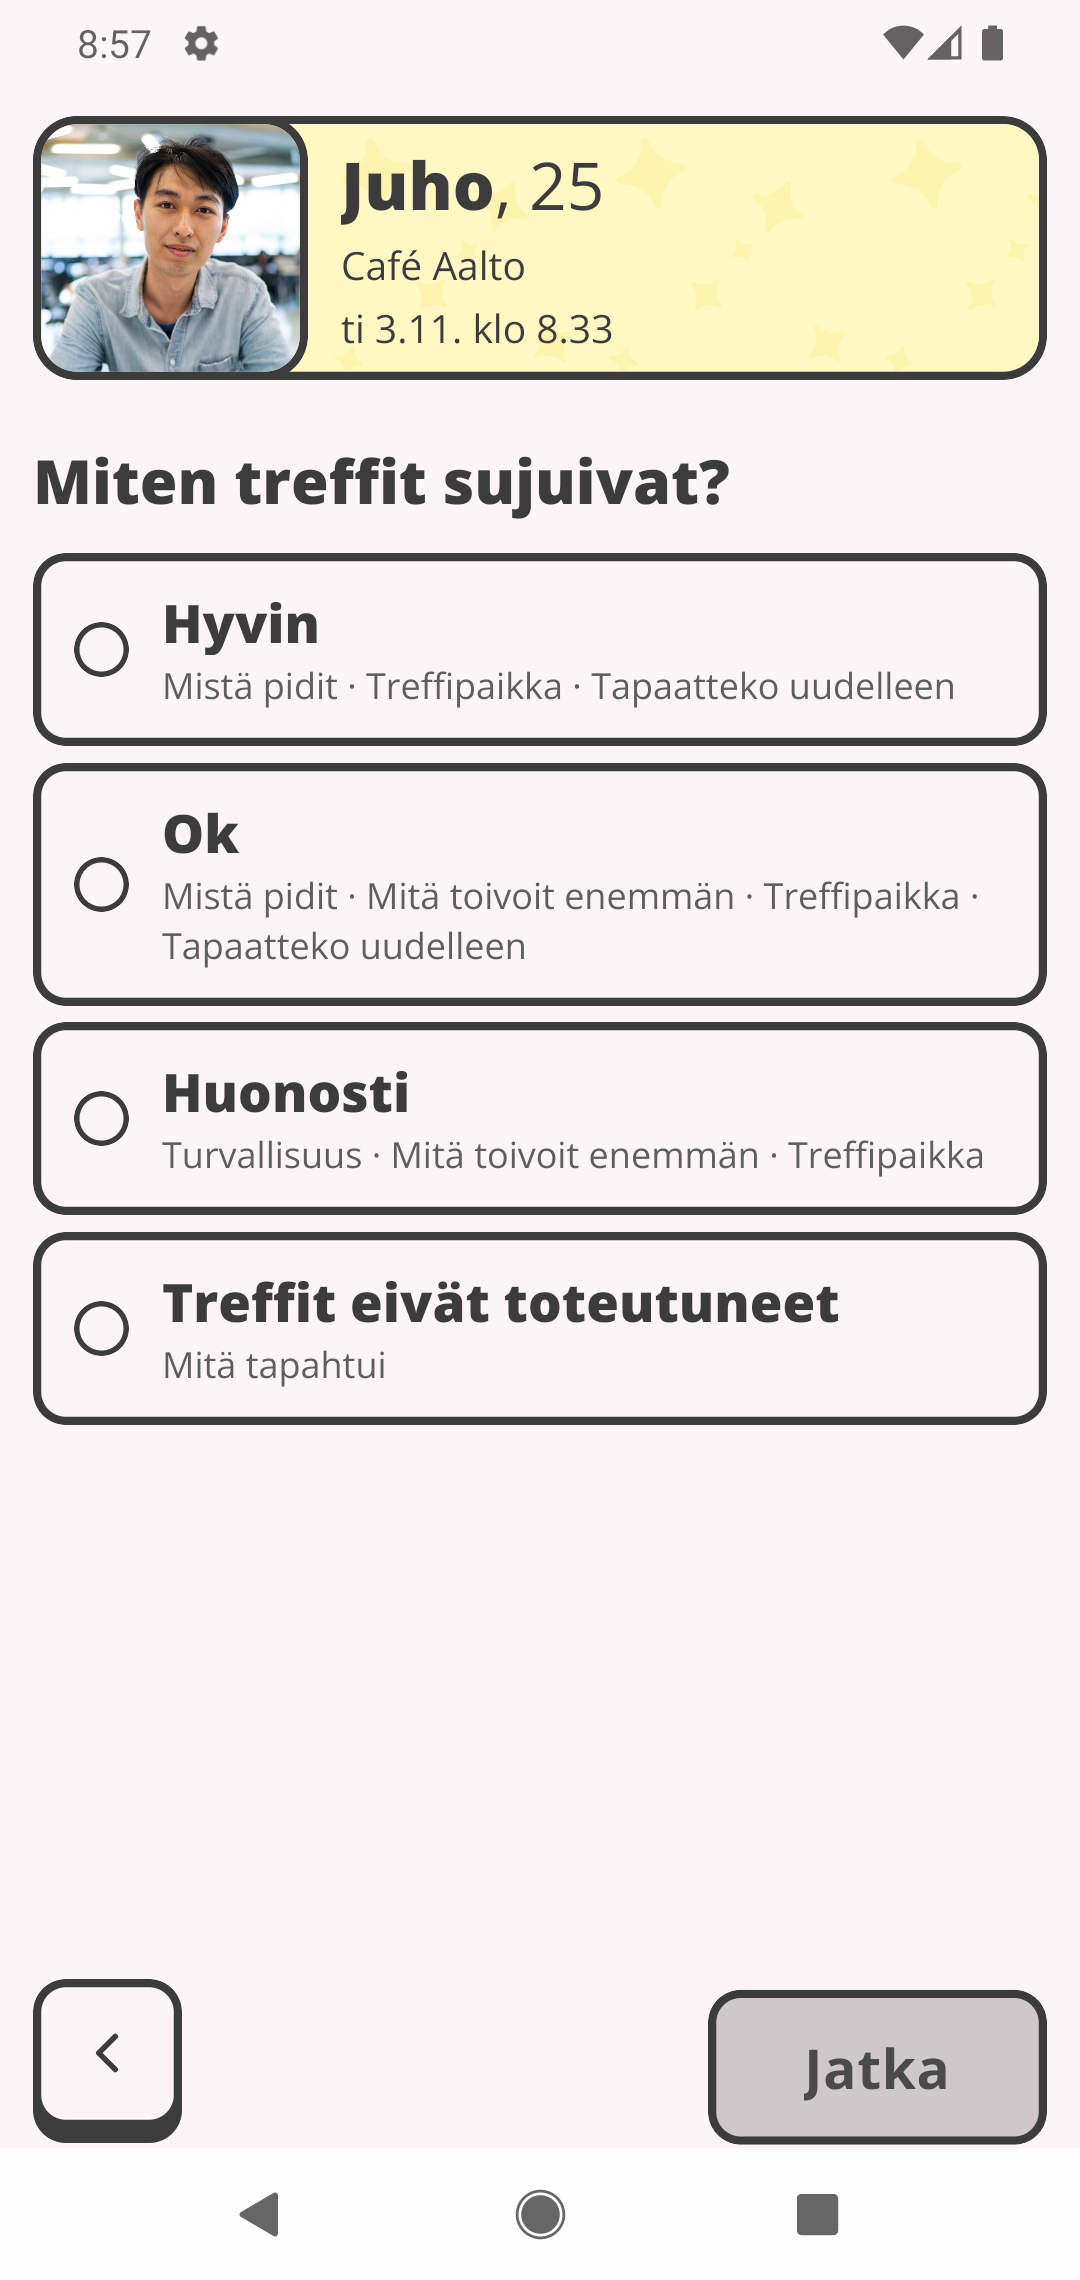
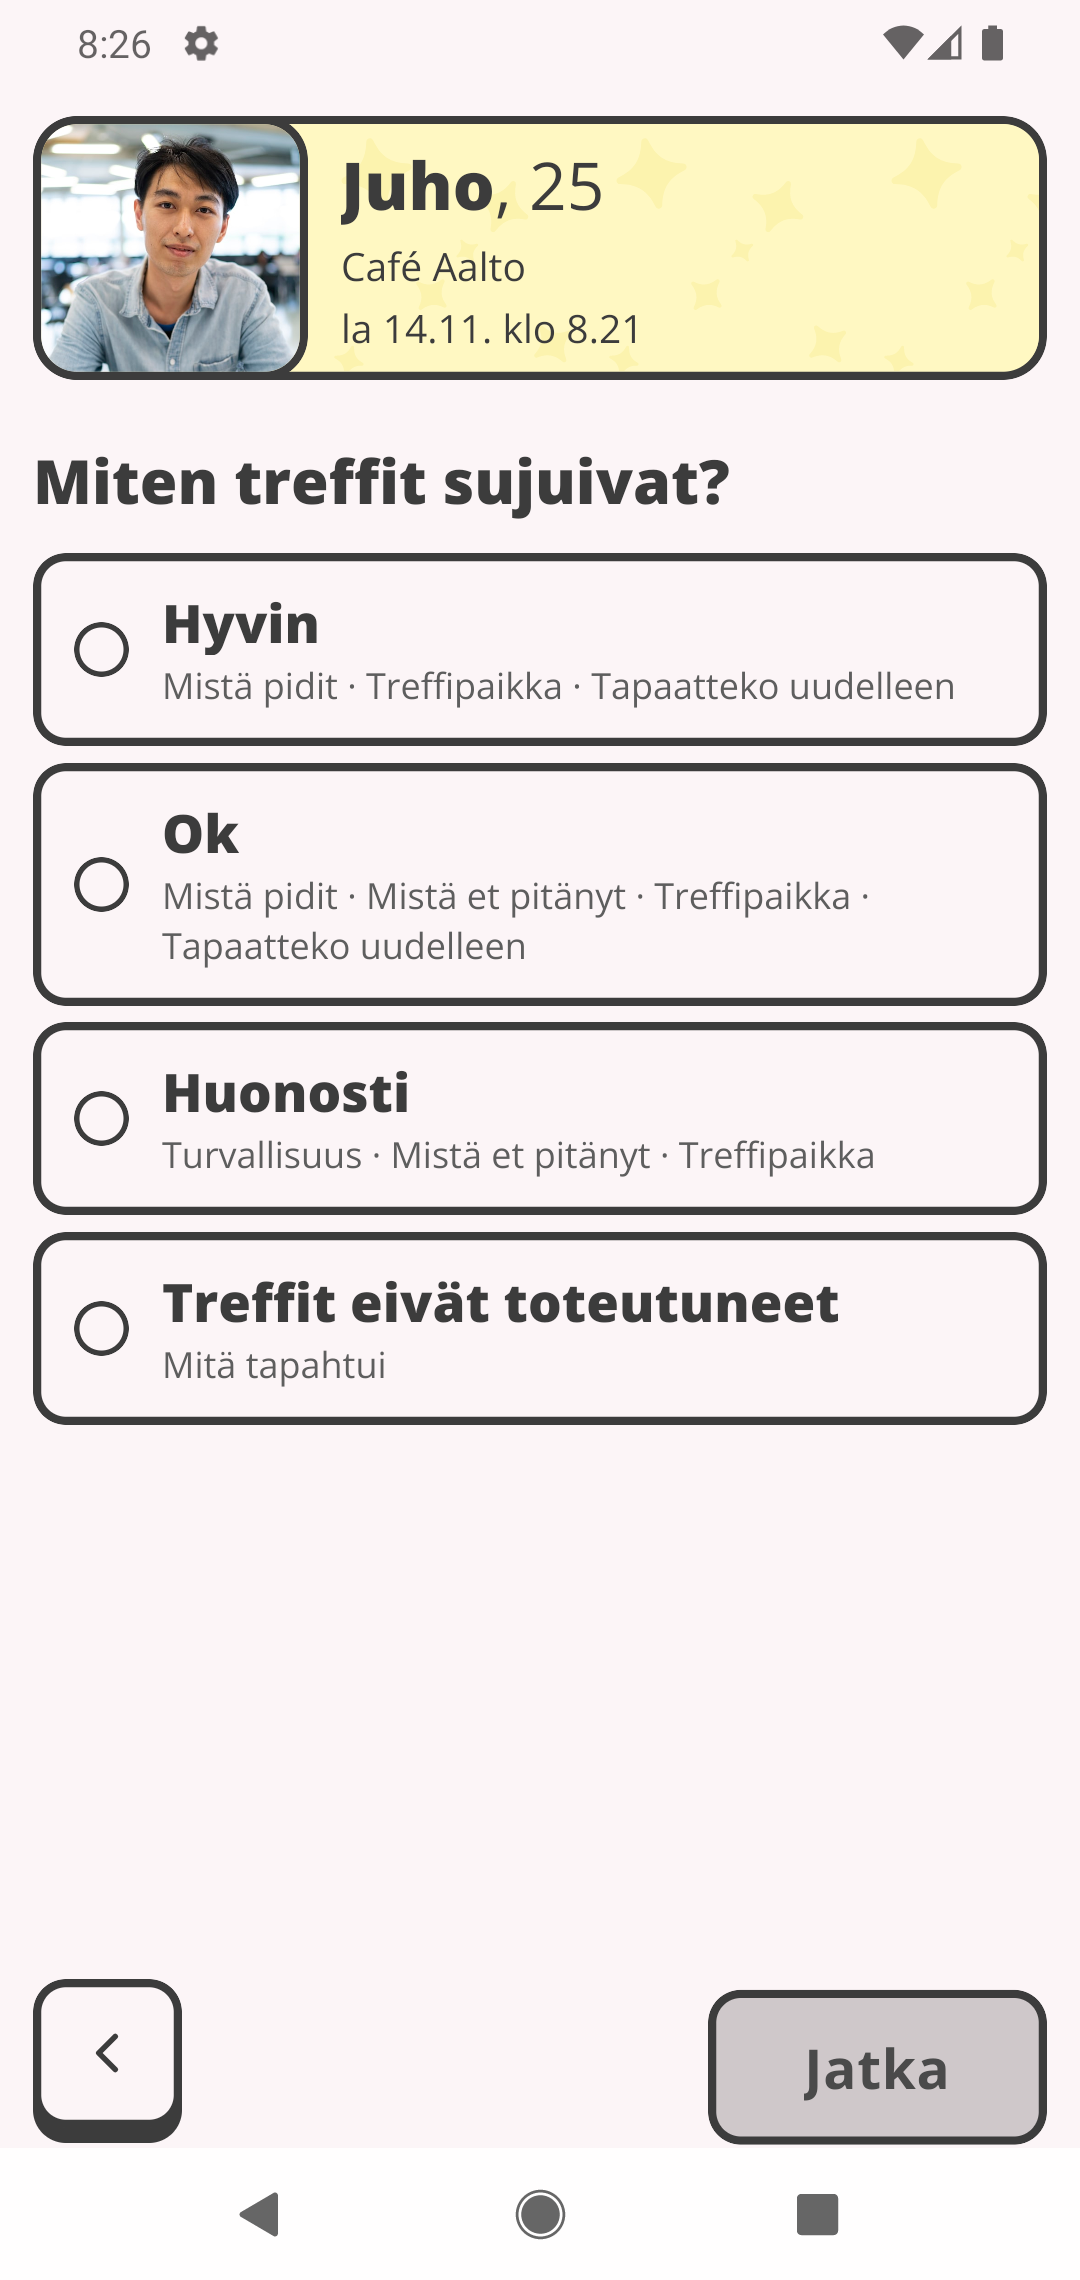
pictures: the feedback stills retaken on the new form
The manual's first question now has the Mistä et pitänyt hints, and the
marketing phone shows Pidin näistä asioista treffiparissani as chips, with
no views chips and the lock line under them. Captured with
capture-site-pictures.sh (marketing feedback set) and capture-screens.sh
--manual --only feedback, from a release APK of pilke-app 06117b0 against
treffit-backend ad5d145 with MATCHING_VIEWS_ENABLED off.

Claude-Session: https://claude.ai/code/session_01GD9L6NkBiCqNs6T5pZN8hJ

diff --git a/docs/pictures.md b/docs/pictures.md
@@ -175,8 +175,8 @@ the flow inside it, and "in English" means that flow's copy derived by `manual-s
 | `story-en` | Story test, first question, English | `screenshotStory.yaml` in English | The first question in English and `Continue`. Drawn on no page |
 | `platter-en` | Candidates, English | `screenshotPlatter.yaml` in English | What `platter` shows, in English: `Candidates`, `Times`, `Places`, `Propose!`. Drawn on `/en` in place of `platter` |
 | `invitation-en` | Invitation received, English | `screenshots.yaml` in English | What `invitation` shows, in English: `Choose a time and a place`, `Decline`, `Back`, `Agreed!`. Drawn on `/en` in place of `invitation`, and set into `beta-invitation-en` |
-| `feedback` | Date feedback, *Pidin näistä asioista treffiparissani* | `screenshotFeedback.yaml`, as Venla, whose Finnish account gets the questions in Finnish: *Hyvin*, then *Luonne*, *Älykkyys* and *Huumori* ticked by position | The date's own Treffit card (partner, venue, time) at the top, the facet question with its info button, its facets as rows with three of them ticked, and the pinned footer: the back button and an enabled `Jatka`. The step as somebody answers it, on the front page's fourth step and `nain-se-toimii`'s *Treffien jälkeen* |
-| `feedback-en` | Date feedback, the facet question, English | `screenshotFeedback.yaml` in English, as Juho, whose account is English | The same step in English, `Continue`. Drawn on `/en` in place of `feedback` |
+| `feedback` | Date feedback, *Pidin näistä asioista treffiparissani* | `screenshotFeedback.yaml`, as Venla, whose Finnish account gets the questions in Finnish: *Hyvin*, then *Luonne*, *Älykkyys* and *Huumori* ticked by position | The date's own Treffit card (partner, venue, time) at the top, the facet question with *Valitse yksi tai useampi* under it, its fifteen facets as chips with three of them ticked, the lock line *Treffiparisi ei näe vastauksiasi…* under the chips, and the pinned footer: the back button and an enabled `Jatka`. The step as somebody answers it, on the front page's fourth step and `nain-se-toimii`'s *Treffien jälkeen* |
+| `feedback-en` | Date feedback, the facet question, English | `screenshotFeedback.yaml` in English, as Juho, whose account is English | The same step in English, `Continue`. The English chips are wider, so the last row and the lock line fall under the footer. Drawn on `/en` in place of `feedback` |
 | `mieltymykset` | Question set *Mieltymykset*, two answers picked | `screenshotMieltymykset.yaml`, as the platter's account, its Mieltymykset answers cleared before and after | The back button, the set's title and its `2/3` progress, *Haluan joskus lapsia* with *En osaa sanoa* picked, *Poltan tupakkaa* with *En, mutta se ei haittaa minua* picked, and the head of *Unelmoin maalla asumisesta*, at the top of the screen as it opens. Server copy in the account's language, so it goes stale on the survey's wording. Drawn on the front page's first step, under the page's own *Tulossa pian* chip |
 | `mieltymykset-en` | The same, English | `screenshotMieltymykset.yaml` in English | *Preferences*, *I can't say* and *No, but it doesn't bother me*. Drawn on `/en` in place of `mieltymykset` |
 | `preferences` | Settings, Omat tiedot, the *Toiveet* page, on `nain-se-toimii`'s first section | `screenshotPreferences.yaml`, as the platter's account | The back button and the page's title `Toiveet`, `Treffiparin sukupuoli` with its three options, `Minimi-ikä` and `Maksimi-ikä` filled in on the screen (25 and 38, never saved), `Mitä odotat treffeiltä?` with both answers, the languages with Suomi and Svenska, and the page's pinned `Tallenna`. No tab bar, no name and no photo |
